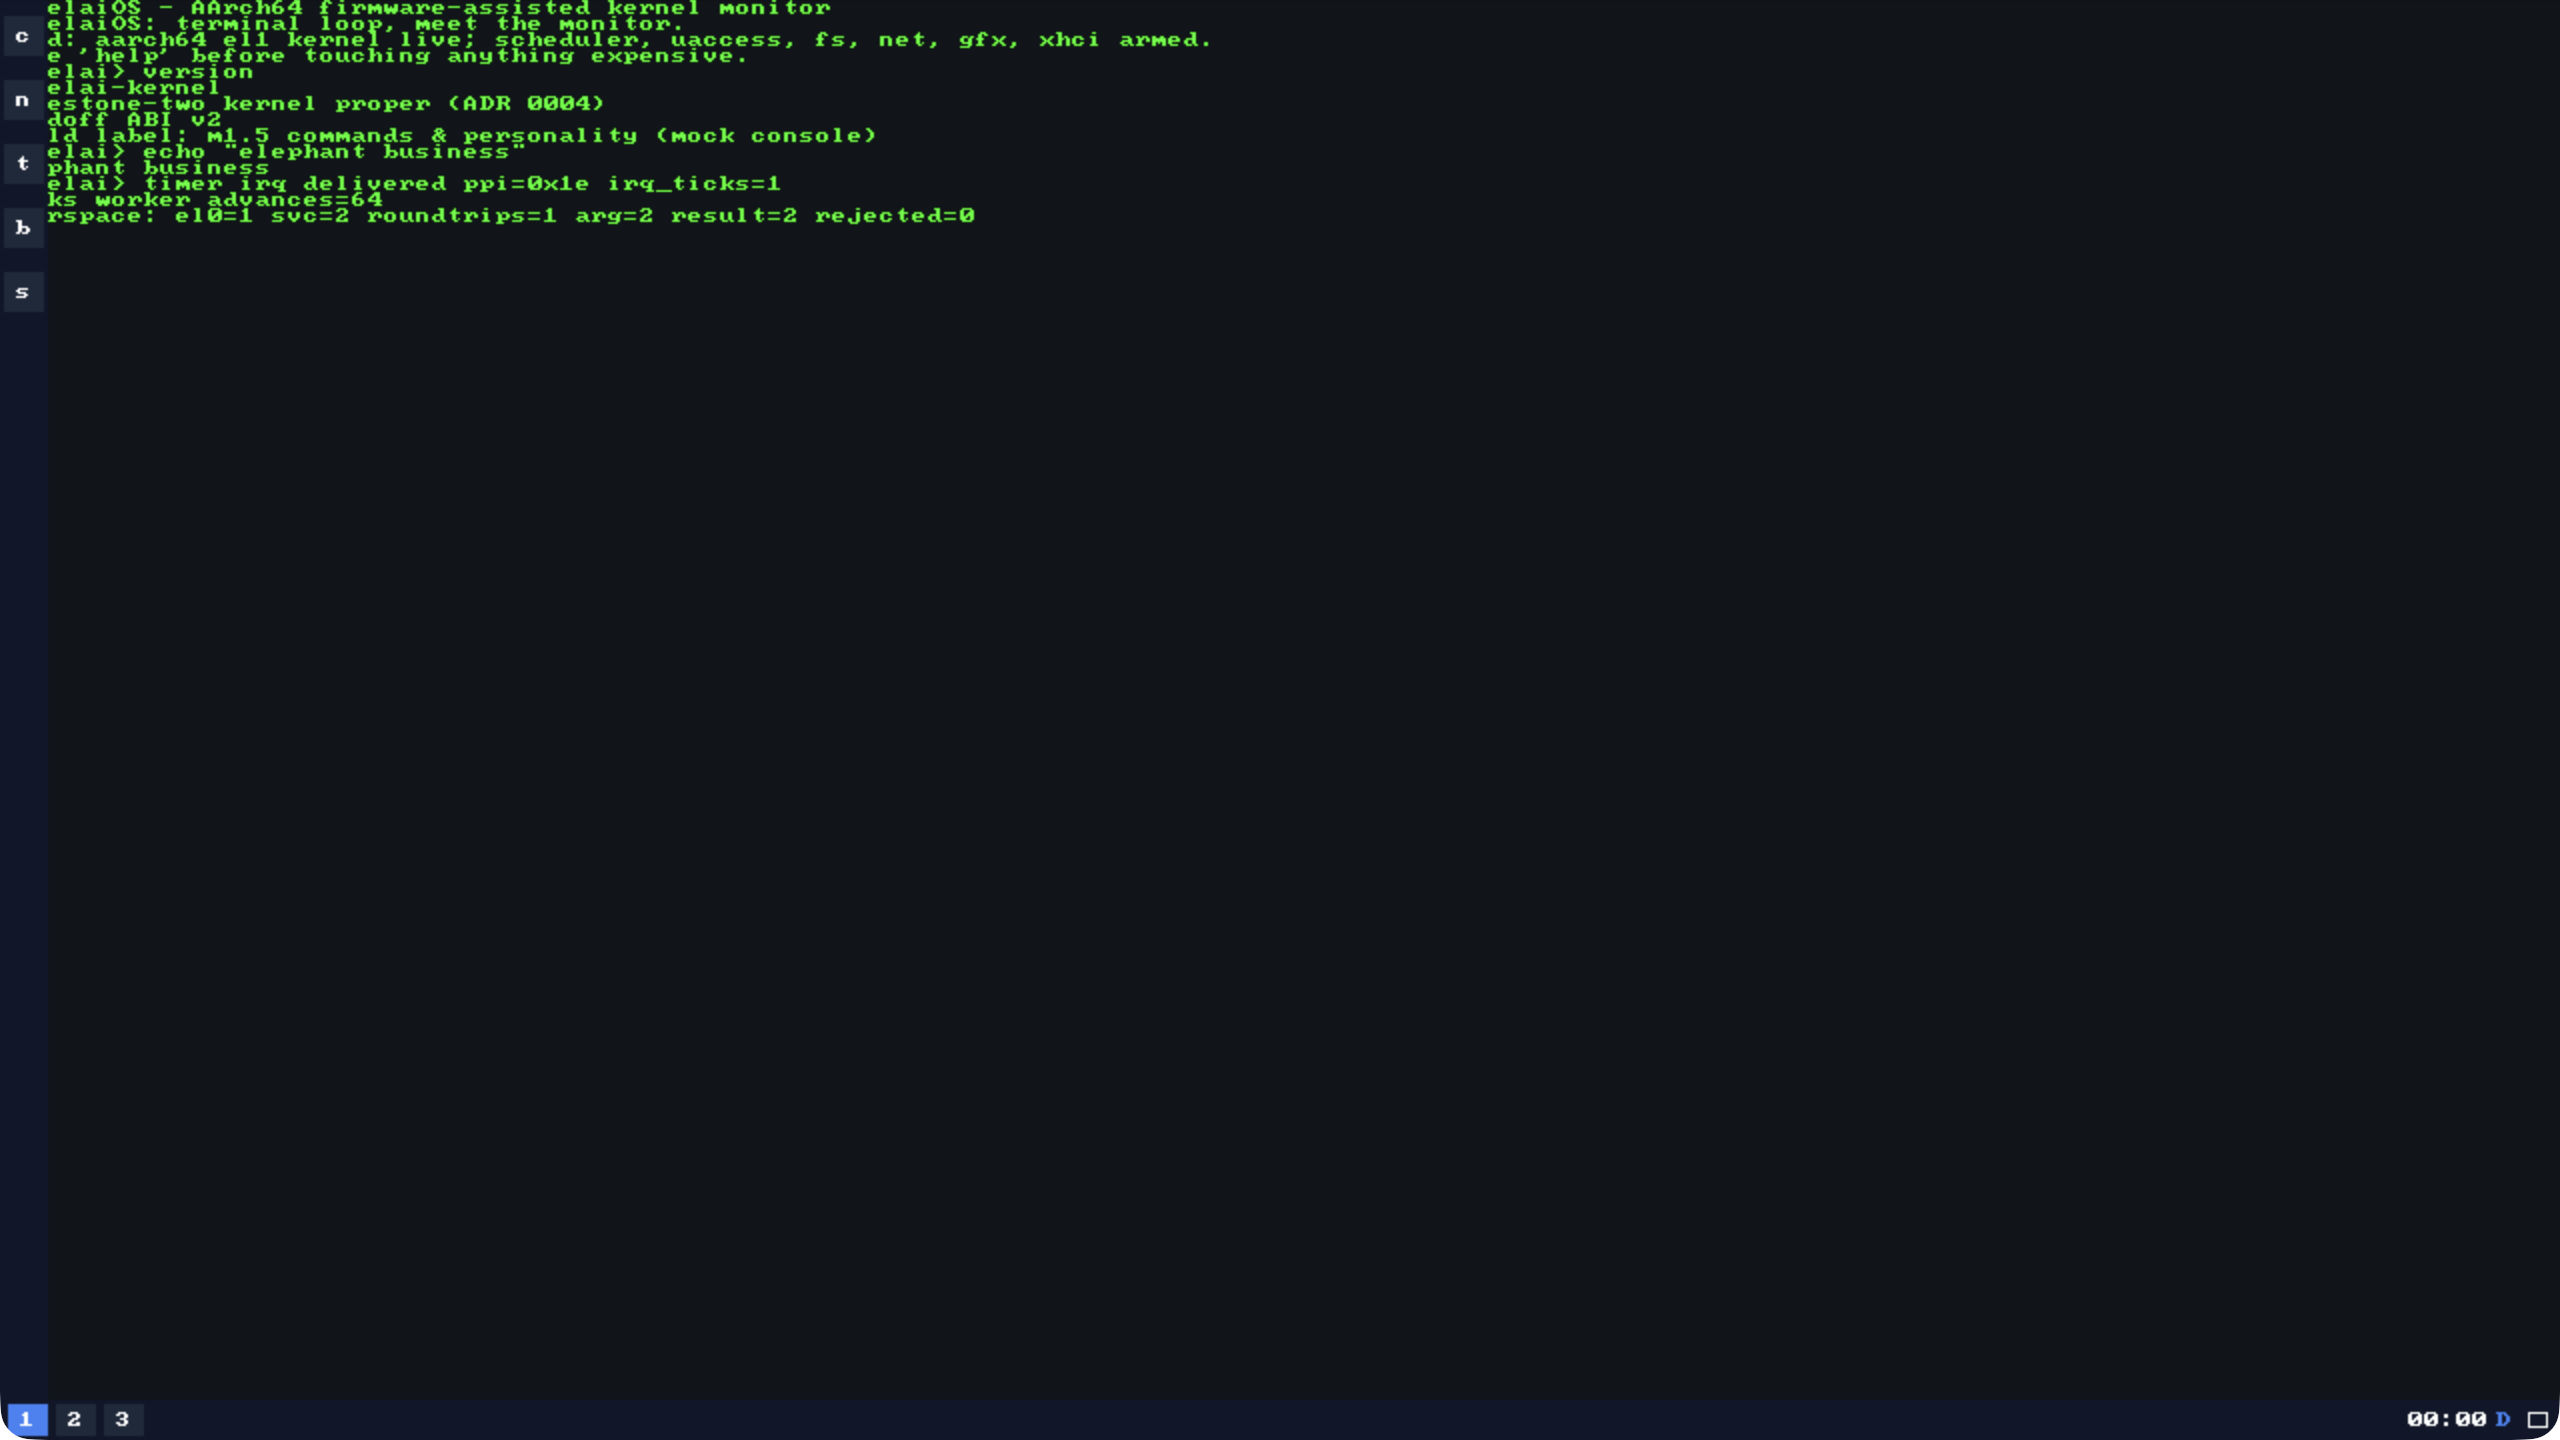
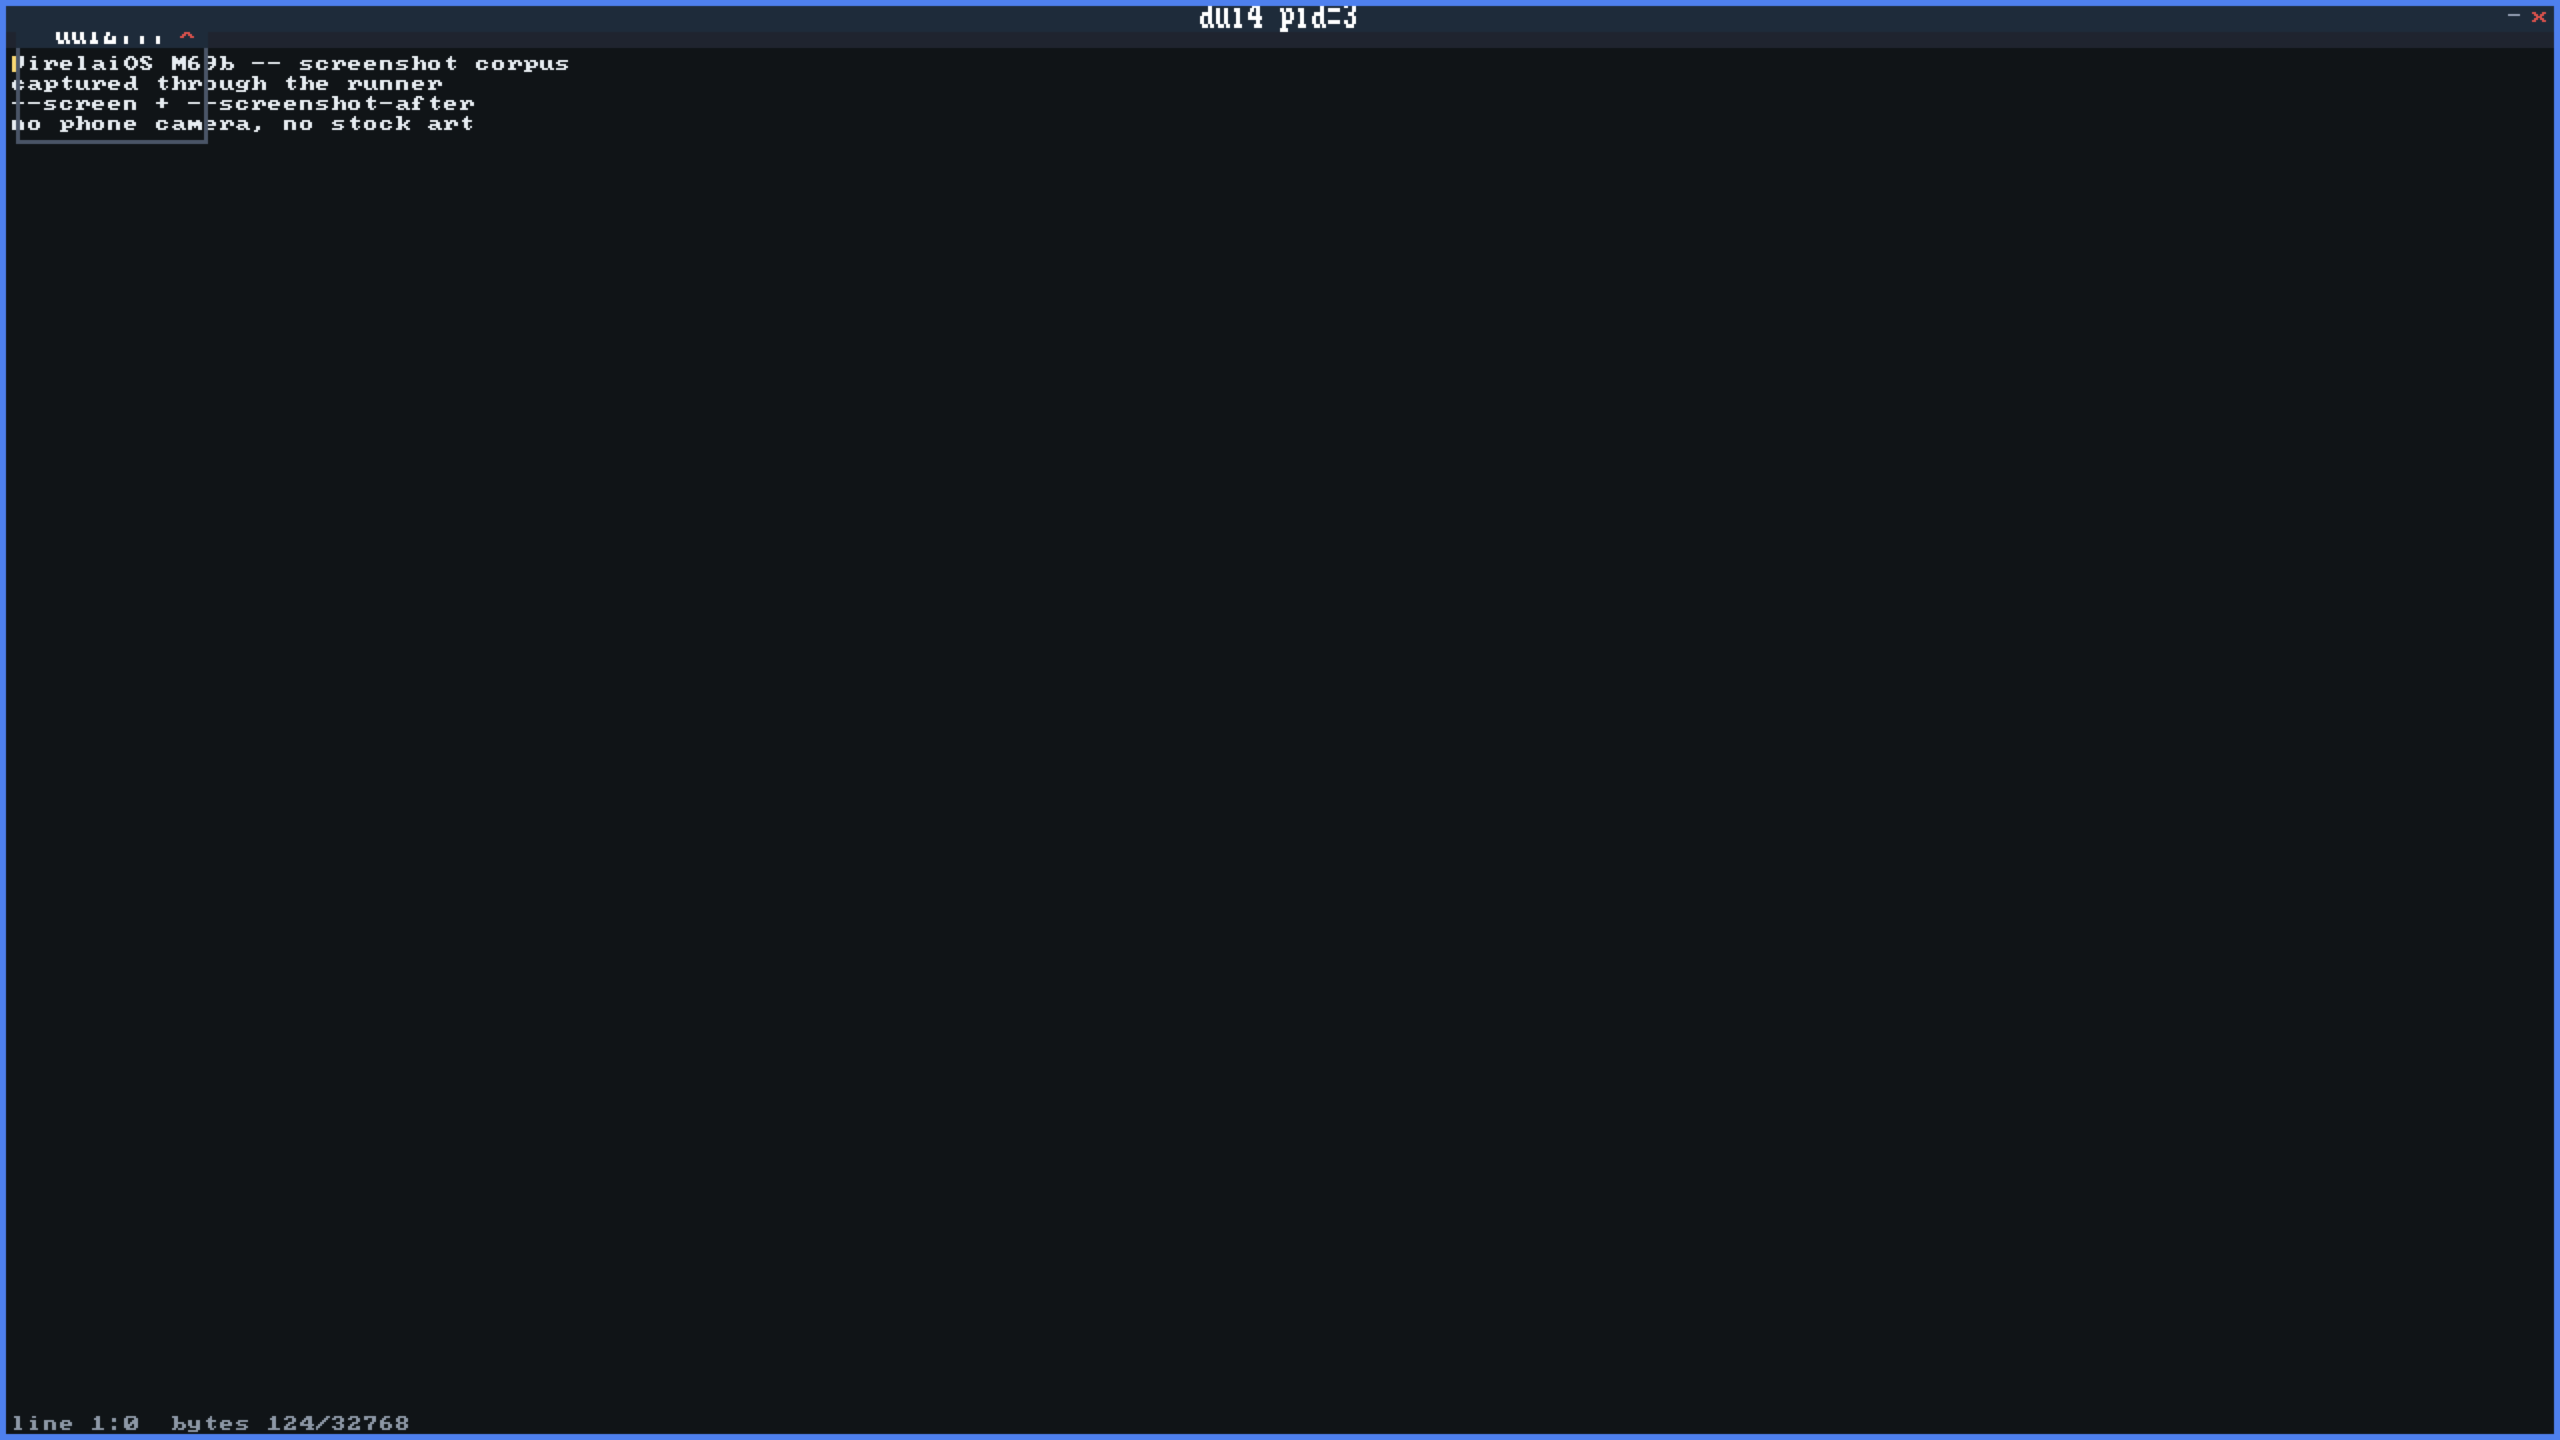
site: the M69b screenshot corpus is five live captures of THIS tree
The site's images were Road-Pops-era pixels from 2026-08-31 (and the caption
described a "Road Pops terminal" and a "Driving Award clock overlay"). All five
files are now captures of the current boot, produced through the runner's own
framebuffer path (`--screen` + `--screenshot-after`, one boot each, waiting on
a guest-owned marker), at 2560x1440 -- the 1280x720 scanout at 2x.

screenshot.png (the hero, and the file site/index.md already embedded) is the
default Go seat GOTABWM.ELF hosting the Go editor NOTE.ELF, which loaded
/host/notes.txt out of the host share; gosh.png, note.png, gocalc.png and
web.png are the rest of the corpus, one boot each, the last of them WEB
rendering a page in-guest.

The captions say what the pixels show, including the two things no gate
asserts: GOSH.ELF's tab holds no pixels although the shell's own markers are
green (observed on #1529, not yet diagnosed), and kernel console text is on the
scanout wherever no window covers it. No stock art, no phone camera.

Changed region(s): [[0.0, 0.0, 1.0, 0.2188], [0.0, 0.9688, 1.0, 1.0]]

diff --git a/site/index.md b/site/index.md
@@ -22,7 +22,11 @@ see [[evidence]].
 
 ## Current status
 
-Every milestone through **thirty-one** has landed and closed:
+Every milestone through **M70** has landed and closed (2026-09-20). The table
+below is the first thirty-one — the arc this site grew alongside; the
+always-current accounting for everything since is
+[`docs/status.md`](https://github.com/drawmeanelephant/DipshitOS/blob/main/docs/status.md)
+and [[roadmap]]:
 
 | Milestone | What it is | Status |
 |-----------|-----------|--------|
@@ -58,12 +62,15 @@ Every milestone through **thirty-one** has landed and closed:
 | Dynamic linking | Freestanding `LD.SO` + `LIBUI.SO`/`LIBFONT.SO`, W^X multi-aperture isolation (M30) | Done |
 | Dyn-linking ecosystem | `CALC.ELF`/`NOTEPAD.ELF`/`FILE.ELF`/`DESKTOP.ELF`, runtime `dlopen`/`dlsym` (M31) | Done |
 
-The full, always-current accounting lives in the repository's
-[`docs/status.md`](https://github.com/drawmeanelephant/DipshitOS/blob/main/docs/status.md).
-
-Every GitHub milestone is closed and the issue tracker is at **zero open
-issues** (2026-08-28) — the project sits between milestones, with no M32
-defined yet.
+**The boot default is the Go seat.** A single boot autostarts `GOTABWM.ELF`,
+which hosts Go EL0 clients — the shell `GOSH.ELF`, the editor `NOTE.ELF`, the
+calculator `GOCALC.ELF`, the browser `WEB.ELF` — as tabs over the `WM_RPC`
+contract; Zig `TABWM.BIN` is retained by decision (ADR 0034) as the
+`settings set wm tabwm` fallback. The tracker is **open and active** — the
+daily-driver floor (M69) and the moonshot arcs (M70) are in flight (the Go
+toolchain now builds and runs programs in-guest, `live-selfhost-go`) — so read
+[`docs/status.md`](https://github.com/drawmeanelephant/DipshitOS/blob/main/docs/status.md)
+for what is landed today instead of a date-stamped claim from this page.
 
 <Aside kind="info">
 
@@ -112,11 +119,27 @@ A single boot of VirelaiOS gets you, in order:
 - Sound: a virtio-snd device, PCM playback from EL0, a boot chime, and a
   melody app that plays Twinkle Twinkle Little Star.
 
-![A live VirelaiOS boot: the Road Pops terminal showing the boot banner and an echoed session, with the Driving Award clock overlay in the top-right corner](index.assets/screenshot.png "A live VirelaiOS boot")
+![A live VirelaiOS boot: the Go seat GOTABWM with its tab strip across the top and the Go editor NOTE.ELF hosting a document in the tab below](index.assets/screenshot.png "A live VirelaiOS boot")
 
-*A live boot captured by the ScreenCaptureKit evidence path: Road Pops renders
-real echoed commands on screen while the Driving Award clock overlay composites
-in the top-right corner.*
+*A live boot, captured by the runner's own framebuffer path — one boot,
+`--screen` + `--screenshot-after` waiting on a guest marker, 2560x1440 (the
+1280x720 scanout at 2x). The default **Go seat** `GOTABWM.ELF` is hosting the
+Go editor `NOTE.ELF`, which loaded `/host/notes.txt` out of the host share. No
+phone camera and no stock art; `docs/testing.md` has the recipe.*
+
+| | |
+|---|---|
+| ![GOSH on the Go seat](index.assets/gosh.png) | ![NOTE on the Go seat](index.assets/note.png) |
+| ![GOCALC on the Go seat](index.assets/gocalc.png) | ![WEB rendering a page in-guest](index.assets/web.png) |
+
+*The rest of the corpus, captured through the same path, one boot each: the
+shell `GOSH.ELF`, the editor, the calculator, and the browser rendering a page
+in-guest. Two things the pixels show that no gate asserts — `GOSH.ELF`'s tab
+holds no pixels even though the shell's own markers are green (observed on
+[#1529](https://github.com/drawmeanelephant/DipshitOS/issues/1529), not yet
+diagnosed), and kernel console text is on the scanout wherever no window
+covers it. Regenerate them with `docs/testing.md`; the PNGs are the pinned
+fixtures, the serial logs are not committed.*
 
 ## What it runs on
 
